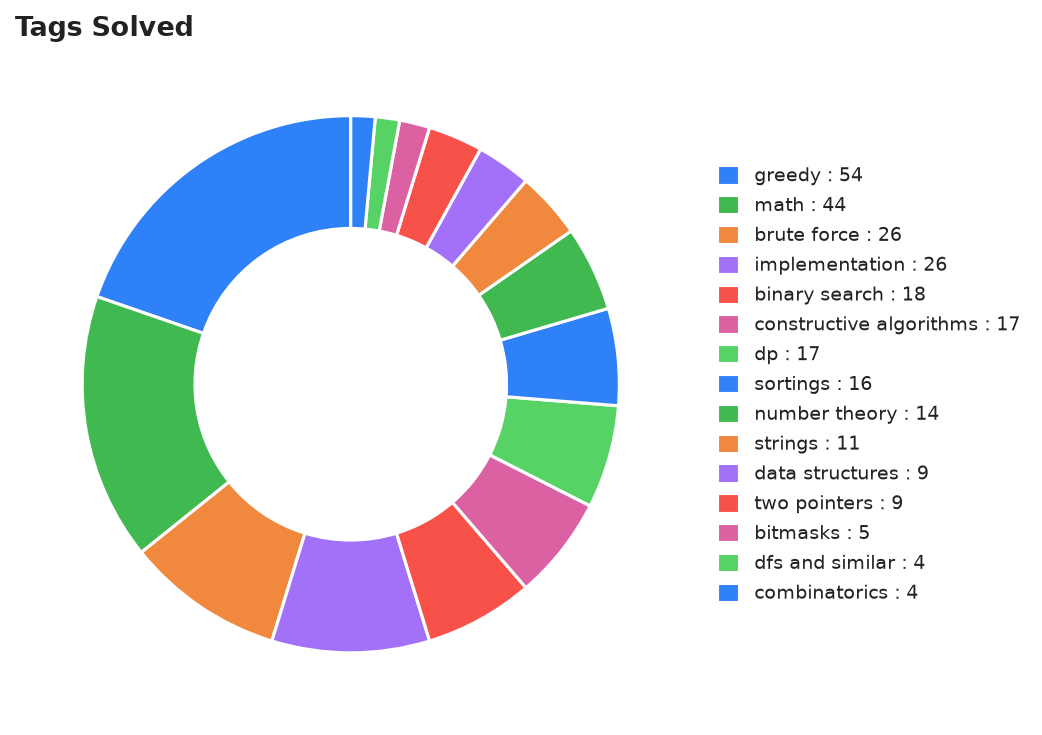
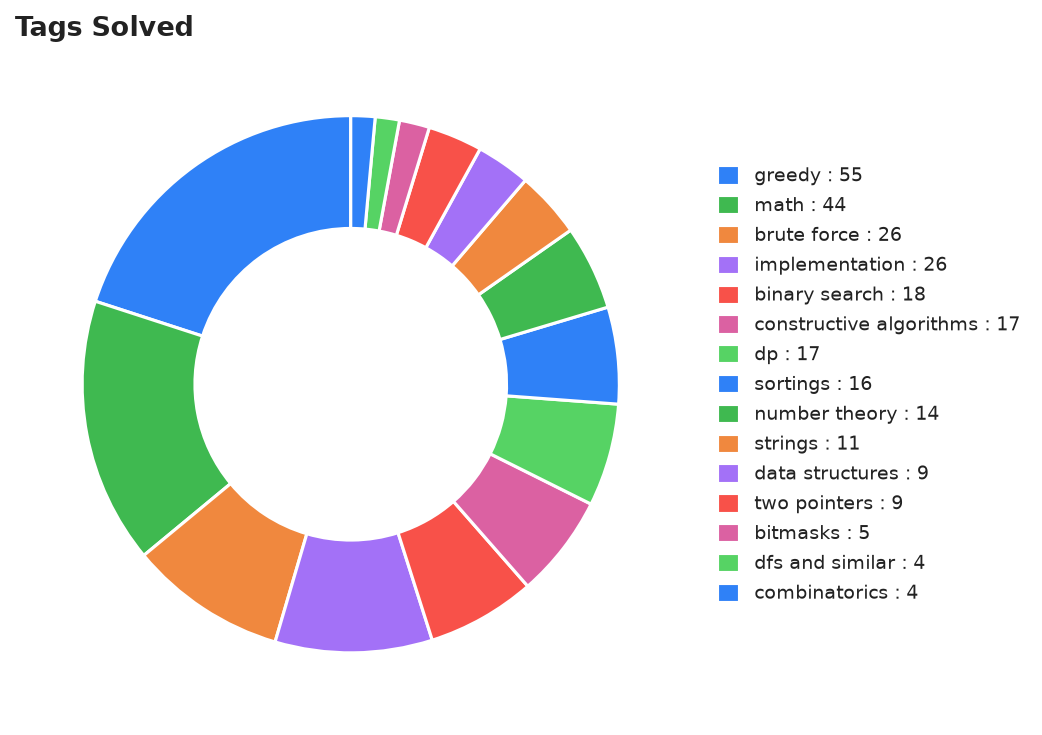
Sync: refresh analytics (rating/streak update, no new problems)

diff --git a/README.md b/README.md
@@ -54,7 +54,7 @@ Auto-generated archive of accepted Codeforces submissions for **[om_sharma_](htt
 
 | Tag | Count |
 |---|---|
-| `greedy` | 54 |
+| `greedy` | 55 |
 | `math` | 44 |
 | `brute force` | 26 |
 | `implementation` | 26 |
@@ -95,7 +95,7 @@ Auto-generated archive of accepted Codeforces submissions for **[om_sharma_](htt
 | 2246A | [farmpiggie and Subset Sum](problems/constructive-algorithms/Unrated_2246A-farmpiggie-and-Subset-Sum) | ? | `constructive algorithms` | — | [CF](https://codeforces.com/contest/2246/problem/A) |
 | 2246B | [ezraft and Array](problems/constructive-algorithms/Unrated_2246B-ezraft-and-Array) | ? | `constructive algorithms`, `number theory` | — | [CF](https://codeforces.com/contest/2246/problem/B) |
 | 2247A | [Zero Sum](problems/constructive-algorithms/Unrated_2247A-Zero-Sum) | ? | `constructive algorithms`, `dp`, `number theory` | — | [CF](https://codeforces.com/contest/2247/problem/A) |
-| 2248A | [You Delete, I Delete](problems/untagged/Unrated_2248A-You-Delete-I-Delete) | ? |  | — | [CF](https://codeforces.com/contest/2248/problem/A) |
+| 2248A | [You Delete, I Delete](problems/greedy/Unrated_2248A-You-Delete-I-Delete) | ? | `greedy` | — | [CF](https://codeforces.com/contest/2248/problem/A) |
 | 4A | [Watermelon](problems/brute-force/0800_4A-Watermelon) | 800 | `brute force`, `math` | — | [CF](https://codeforces.com/contest/4/problem/A) |
 | 231A | [Team](problems/brute-force/0800_231A-Team) | 800 | `brute force`, `greedy` | — | [CF](https://codeforces.com/contest/231/problem/A) |
 | 263A | [Beautiful Matrix](problems/implementation/0800_263A-Beautiful-Matrix) | 800 | `implementation` | — | [CF](https://codeforces.com/contest/263/problem/A) |
